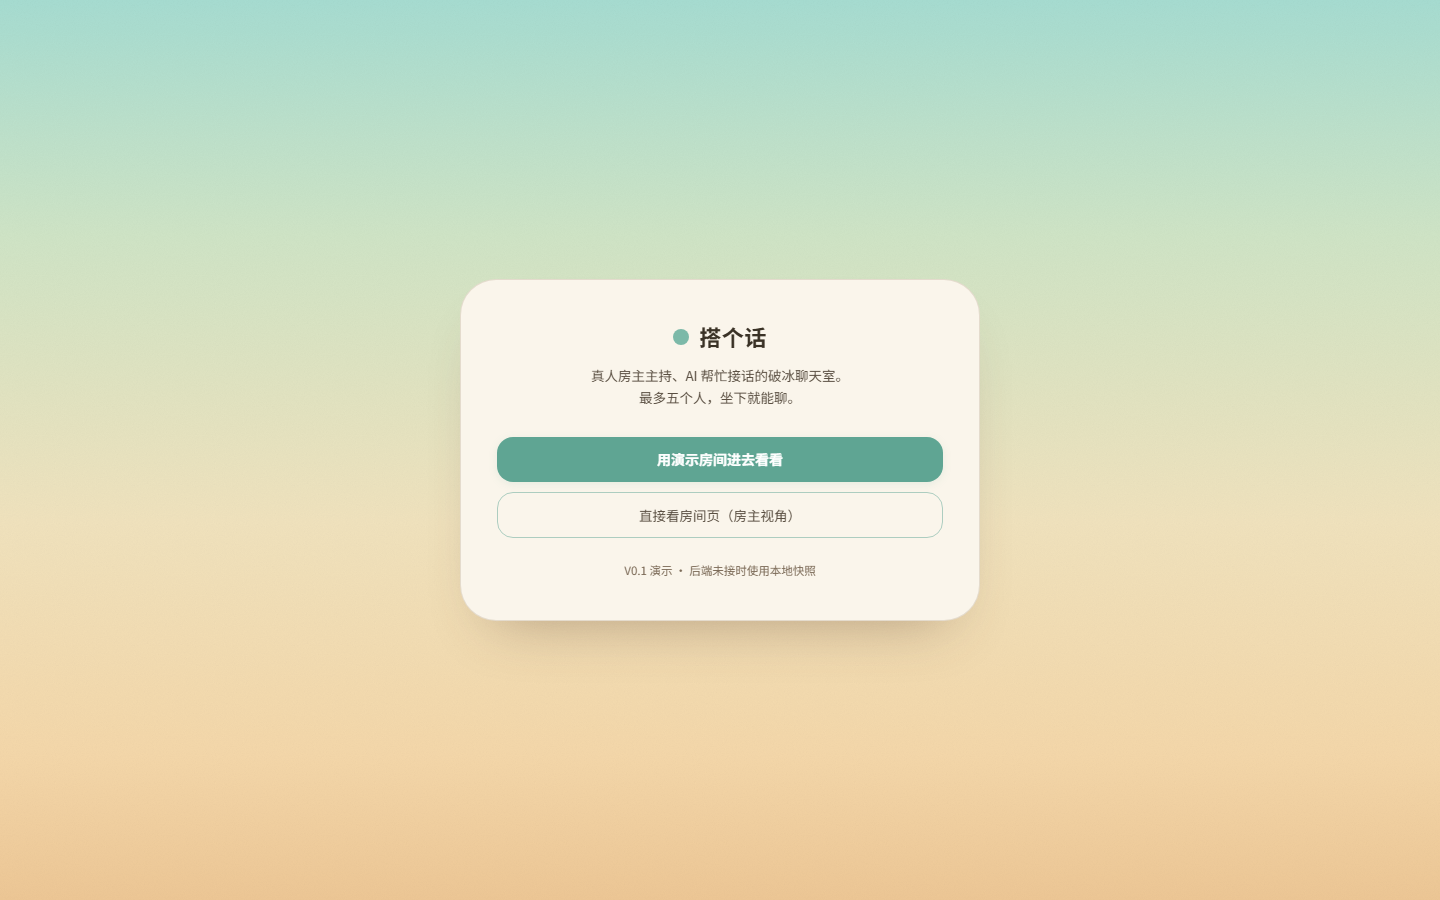
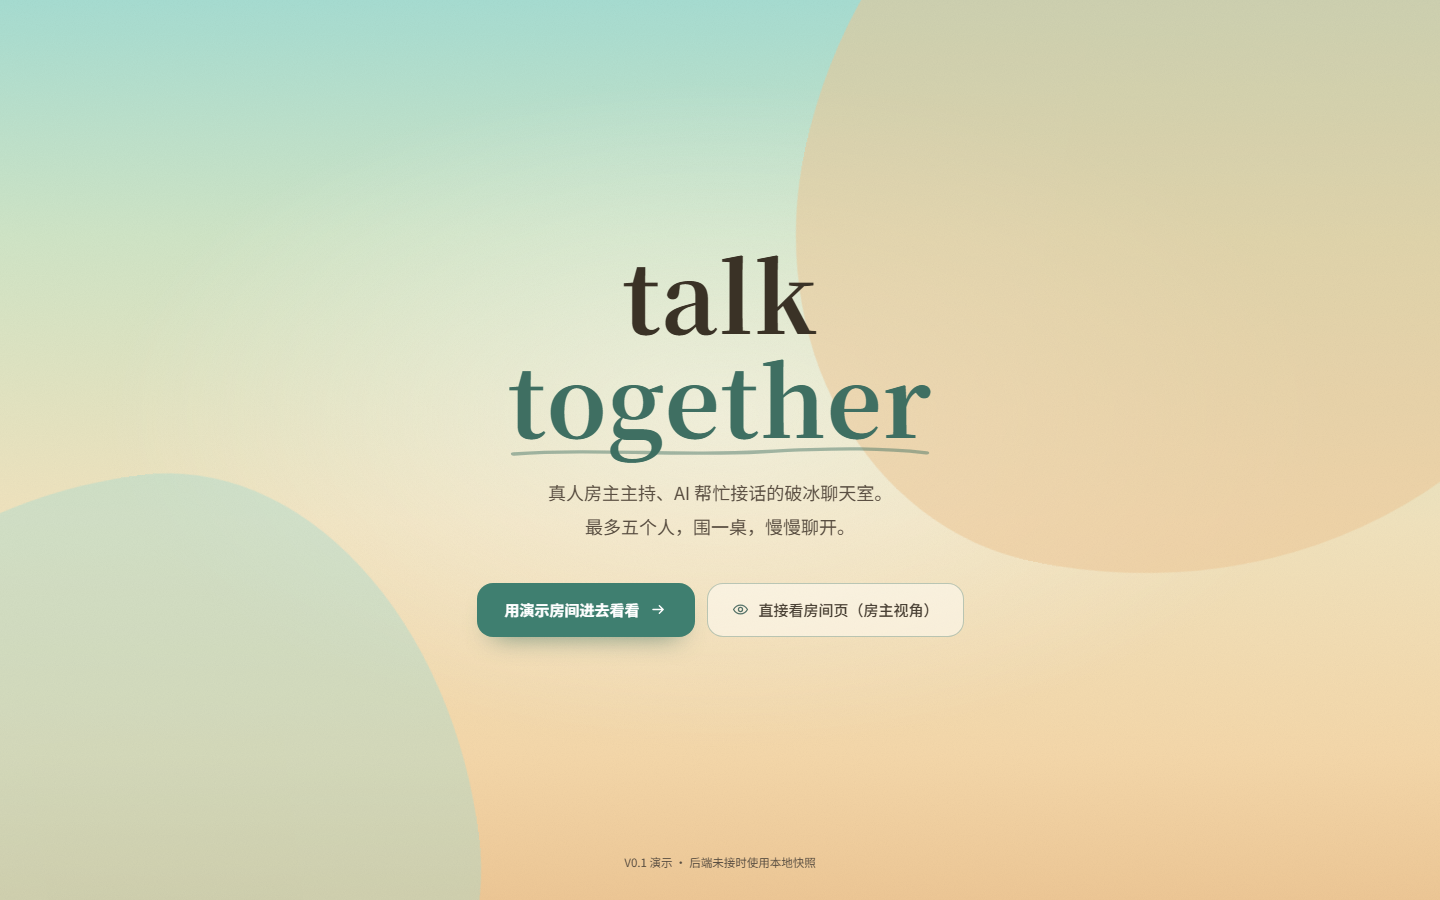
feat(frontend): 首页改为全屏开场，标题换成 talk together
- 去掉左上角品牌与右上角座位指示，只留居中内容
- 大标题改为 talk / together，together 用鼠尾草色 + 手绘下划线
- 补首页的柔和光斑、blob、分批进场动效与焦点样式

diff --git a/frontend/src/pages/HomePage.tsx b/frontend/src/pages/HomePage.tsx
@@ -2,32 +2,99 @@ import { Link } from 'react-router-dom'
 
 export default function HomePage() {
   return (
-    <div className="page-bg paper grid min-h-screen place-items-center px-6">
-      <div className="relative z-10 w-full max-w-[520px] rounded-[36px] border-[1.5px] border-rule bg-paper px-9 py-10 text-center shadow-[0_30px_60px_-34px_rgba(92,64,51,.45)]">
-        <div className="mb-3 flex items-center justify-center gap-2.5 text-[22px] font-bold tracking-wide">
-          <span className="h-4 w-4 rounded-full bg-sage" />
-          搭个话
-        </div>
-        <p className="text-[13.5px] leading-relaxed text-ink-2">
-          真人房主主持、AI 帮忙接话的破冰聊天室。
-          <br />
-          最多五个人，坐下就能聊。
-        </p>
-        <div className="mt-7 flex flex-col gap-2.5">
-          <Link
-            to="/join/room_demo"
-            className="rounded-2xl bg-sage-deep px-6 py-3 text-[14px] font-semibold text-white shadow-soft transition-colors hover:bg-[#549c8b]"
-          >
-            用演示房间进去看看
-          </Link>
-          <Link
-            to="/rooms/room_demo"
-            className="rounded-2xl border-[1.5px] border-[rgba(96,166,150,.5)] px-6 py-3 text-[13.5px] text-ink-2 transition-colors hover:bg-card"
-          >
-            直接看房间页（房主视角）
-          </Link>
-        </div>
-        <p className="mt-6 text-[11.5px] text-muted">V0.1 演示 · 后端未接时使用本地快照</p>
+    <div className="page-bg paper relative min-h-screen min-h-[100svh] overflow-hidden">
+      <div aria-hidden="true" className="pointer-events-none absolute inset-0 overflow-hidden">
+        <span className="hero-glow" />
+        <span className="hero-blob hero-blob--sand" />
+        <span className="hero-blob hero-blob--sky" />
+      </div>
+
+      <div className="relative z-10 mx-auto flex min-h-screen min-h-[100svh] w-full max-w-[1440px] flex-col px-5 py-6 sm:px-8 lg:px-12">
+        <main className="flex flex-1 flex-col items-center justify-center py-10 sm:py-14">
+          <div className="hero-stage w-full text-center">
+            <h1 className="hero-title">
+              <span className="hero-line">
+                <span>talk</span>
+              </span>
+              <span className="hero-line">
+                <span>
+                  <span className="hero-accent">
+                    together
+                    <svg
+                      viewBox="0 0 220 12"
+                      preserveAspectRatio="none"
+                      aria-hidden="true"
+                      className="absolute -bottom-[0.1em] left-0 h-[0.14em] w-full overflow-visible"
+                    >
+                      <path
+                        d="M3 8 C 46 3, 90 10, 132 6 S 196 3, 217 7"
+                        fill="none"
+                        stroke="currentColor"
+                        strokeWidth="3"
+                        strokeLinecap="round"
+                        opacity="0.45"
+                      />
+                    </svg>
+                  </span>
+                </span>
+              </span>
+            </h1>
+
+            <p className="hero-enter hero-enter--desc mx-auto mt-6 max-w-[35rem] text-[16px] leading-[1.85] text-ink-2 text-pretty sm:mt-7 sm:text-[18px]">
+              真人房主主持、AI 帮忙接话的破冰聊天室。
+              <br />
+              最多五个人，围一桌，慢慢聊开。
+            </p>
+
+            <div className="hero-enter hero-enter--cta mt-8 flex flex-col items-center justify-center gap-3 sm:mt-10 sm:flex-row">
+              <Link
+                to="/join/room_demo"
+                className="group inline-flex h-[54px] w-full items-center justify-center gap-2.5 rounded-[16px] bg-[#3f7f70] px-6 text-[15px] font-semibold text-white shadow-[0_14px_26px_-16px_rgba(63,111,98,.8)] transition-[transform,background-color,box-shadow] duration-300 ease-out hover:-translate-y-0.5 hover:bg-[#356f62] hover:shadow-[0_18px_32px_-16px_rgba(63,111,98,.75)] active:translate-y-0 sm:w-auto sm:min-w-[218px]"
+              >
+                用演示房间进去看看
+                <svg
+                  viewBox="0 0 20 20"
+                  aria-hidden="true"
+                  className="h-[17px] w-[17px] transition-transform duration-300 ease-out group-hover:translate-x-1"
+                >
+                  <path
+                    d="M3.5 10h12M11 5.5l4.5 4.5L11 14.5"
+                    fill="none"
+                    stroke="currentColor"
+                    strokeWidth="1.7"
+                    strokeLinecap="round"
+                    strokeLinejoin="round"
+                  />
+                </svg>
+              </Link>
+
+              <Link
+                to="/rooms/room_demo"
+                className="group inline-flex h-[54px] w-full items-center justify-center gap-2.5 rounded-[16px] border-[1.5px] border-[rgba(63,111,98,.34)] bg-[rgba(255,253,247,.52)] px-6 text-[15px] font-medium text-[#4a4135] transition-[transform,background-color,border-color] duration-300 ease-out hover:-translate-y-0.5 hover:border-[rgba(63,111,98,.5)] hover:bg-card active:translate-y-0 sm:w-auto sm:min-w-[232px]"
+              >
+                <svg
+                  viewBox="0 0 20 20"
+                  aria-hidden="true"
+                  className="h-[17px] w-[17px] text-[#557268]"
+                >
+                  <path
+                    d="M1.8 10S4.7 4.8 10 4.8 18.2 10 18.2 10 15.3 15.2 10 15.2 1.8 10 1.8 10Z"
+                    fill="none"
+                    stroke="currentColor"
+                    strokeWidth="1.5"
+                    strokeLinejoin="round"
+                  />
+                  <circle cx="10" cy="10" r="2.4" fill="none" stroke="currentColor" strokeWidth="1.5" />
+                </svg>
+                直接看房间页（房主视角）
+              </Link>
+            </div>
+          </div>
+        </main>
+
+        <footer className="hero-enter hero-enter--foot pb-1 text-center text-[11.5px] leading-relaxed text-ink-2">
+          V0.1 演示 · 后端未接时使用本地快照
+        </footer>
       </div>
     </div>
   )

diff --git a/frontend/src/index.css b/frontend/src/index.css
@@ -24,6 +24,7 @@
   --color-rule-soft: rgba(139, 115, 85, 0.12);
 
   --font-sans: "Noto Sans SC", "Microsoft YaHei", system-ui, sans-serif;
+  --font-display: "Noto Serif SC", "Songti SC", "STSong", "SimSun", serif;
   --font-mono: ui-monospace, "Cascadia Mono", monospace;
 
   --radius-card: 36px;
@@ -61,6 +62,16 @@
   ::selection {
     background: rgba(124, 185, 168, 0.35);
   }
+
+  :where(a, button, input, textarea, select):focus-visible {
+    outline: 2px solid #3f6f62;
+    outline-offset: 3px;
+  }
+
+  input,
+  textarea {
+    caret-color: #3f7f70;
+  }
 }
 
 /* 页面背景：天空 → 奶油 → 蜜桃 */
@@ -93,6 +104,183 @@
   border: 0;
 }
 
+/* 首页：全屏开场。内容一次性分层进场，之后保持安静。 */
+.hero-glow {
+  position: absolute;
+  inset: 0;
+  display: block;
+  opacity: 1;
+  background: radial-gradient(
+    ellipse 60% 52% at 50% 46%,
+    rgba(255, 253, 247, 0.48) 0%,
+    rgba(255, 253, 247, 0) 72%
+  );
+  animation: hero-glow-in 1400ms ease-out both;
+}
+
+.hero-blob {
+  position: absolute;
+  display: block;
+  opacity: 1;
+  pointer-events: none;
+  animation: hero-blob-in 1500ms cubic-bezier(0.16, 1, 0.3, 1) both;
+  will-change: transform, opacity;
+}
+
+.hero-blob--sand {
+  --r: 12deg;
+  top: -24%;
+  right: -12%;
+  width: clamp(480px, 56vw, 820px);
+  aspect-ratio: 1;
+  background: rgba(237, 199, 149, 0.55);
+  border-radius: 46% 54% 62% 38% / 56% 44% 56% 44%;
+  animation-delay: 40ms;
+}
+
+.hero-blob--sky {
+  --r: -7deg;
+  bottom: -30%;
+  left: -15%;
+  width: clamp(420px, 48vw, 720px);
+  aspect-ratio: 1;
+  background: rgba(166, 220, 209, 0.42);
+  border-radius: 58% 42% 46% 54% / 44% 58% 42% 56%;
+  animation-delay: 120ms;
+}
+
+.hero-stage {
+  animation: hero-stage-in 1000ms cubic-bezier(0.16, 1, 0.3, 1) both;
+}
+
+.desc-break {
+  display: none;
+}
+
+@media (max-width: 369px) {
+  .desc-break {
+    display: inline;
+  }
+}
+
+.hero-title {
+  font-family: var(--font-display);
+  font-size: clamp(2.7rem, min(13vw, 14vh), 6rem);
+  font-weight: 700;
+  line-height: 1.08;
+  letter-spacing: 0.012em;
+  color: var(--color-ink);
+}
+
+.hero-line {
+  display: block;
+  overflow: hidden;
+  padding-bottom: 0.16em;
+  margin-bottom: -0.16em;
+}
+
+.hero-line > span {
+  display: inline-block;
+  animation: hero-line-rise 950ms cubic-bezier(0.16, 1, 0.3, 1) both;
+}
+
+.hero-line:nth-child(1) > span {
+  animation-delay: 120ms;
+}
+
+.hero-line:nth-child(2) > span {
+  animation-delay: 220ms;
+}
+
+.hero-accent {
+  position: relative;
+  display: inline-block;
+  color: #3f6f62;
+}
+
+.hero-accent path {
+  stroke-dasharray: 240;
+  stroke-dashoffset: 240;
+  animation: hero-underline 900ms cubic-bezier(0.4, 0, 0.2, 1) 850ms forwards;
+}
+
+.hero-enter {
+  animation: hero-rise 800ms cubic-bezier(0.16, 1, 0.3, 1) both;
+}
+
+.hero-enter--head {
+  animation-delay: 80ms;
+}
+
+.hero-enter--desc {
+  animation-delay: 440ms;
+}
+
+.hero-enter--cta {
+  animation-delay: 560ms;
+}
+
+.hero-enter--foot {
+  animation-delay: 700ms;
+}
+
+@keyframes hero-stage-in {
+  from {
+    opacity: 0;
+    transform: scale(0.985) translateY(6px);
+  }
+  to {
+    opacity: 1;
+    transform: scale(1) translateY(0);
+  }
+}
+
+@keyframes hero-line-rise {
+  from {
+    transform: translateY(112%);
+  }
+  to {
+    transform: translateY(0);
+  }
+}
+
+@keyframes hero-rise {
+  from {
+    opacity: 0;
+    transform: translateY(16px);
+  }
+  to {
+    opacity: 1;
+    transform: translateY(0);
+  }
+}
+
+@keyframes hero-blob-in {
+  from {
+    opacity: 0;
+    transform: rotate(calc(var(--r) - 3deg)) scale(0.94);
+  }
+  to {
+    opacity: 1;
+    transform: rotate(var(--r)) scale(1);
+  }
+}
+
+@keyframes hero-glow-in {
+  from {
+    opacity: 0;
+  }
+  to {
+    opacity: 1;
+  }
+}
+
+@keyframes hero-underline {
+  to {
+    stroke-dashoffset: 0;
+  }
+}
+
 .no-scrollbar {
   scrollbar-width: none;
 }
@@ -105,6 +293,20 @@
   *::before,
   *::after {
     animation-duration: 0.001ms !important;
+    animation-delay: 0ms !important;
     transition-duration: 0.001ms !important;
+  }
+
+  .hero-stage,
+  .hero-enter,
+  .hero-line > span,
+  .hero-blob,
+  .hero-glow {
+    animation: none !important;
+  }
+
+  .hero-accent path {
+    animation: none !important;
+    stroke-dashoffset: 0 !important;
   }
 }
